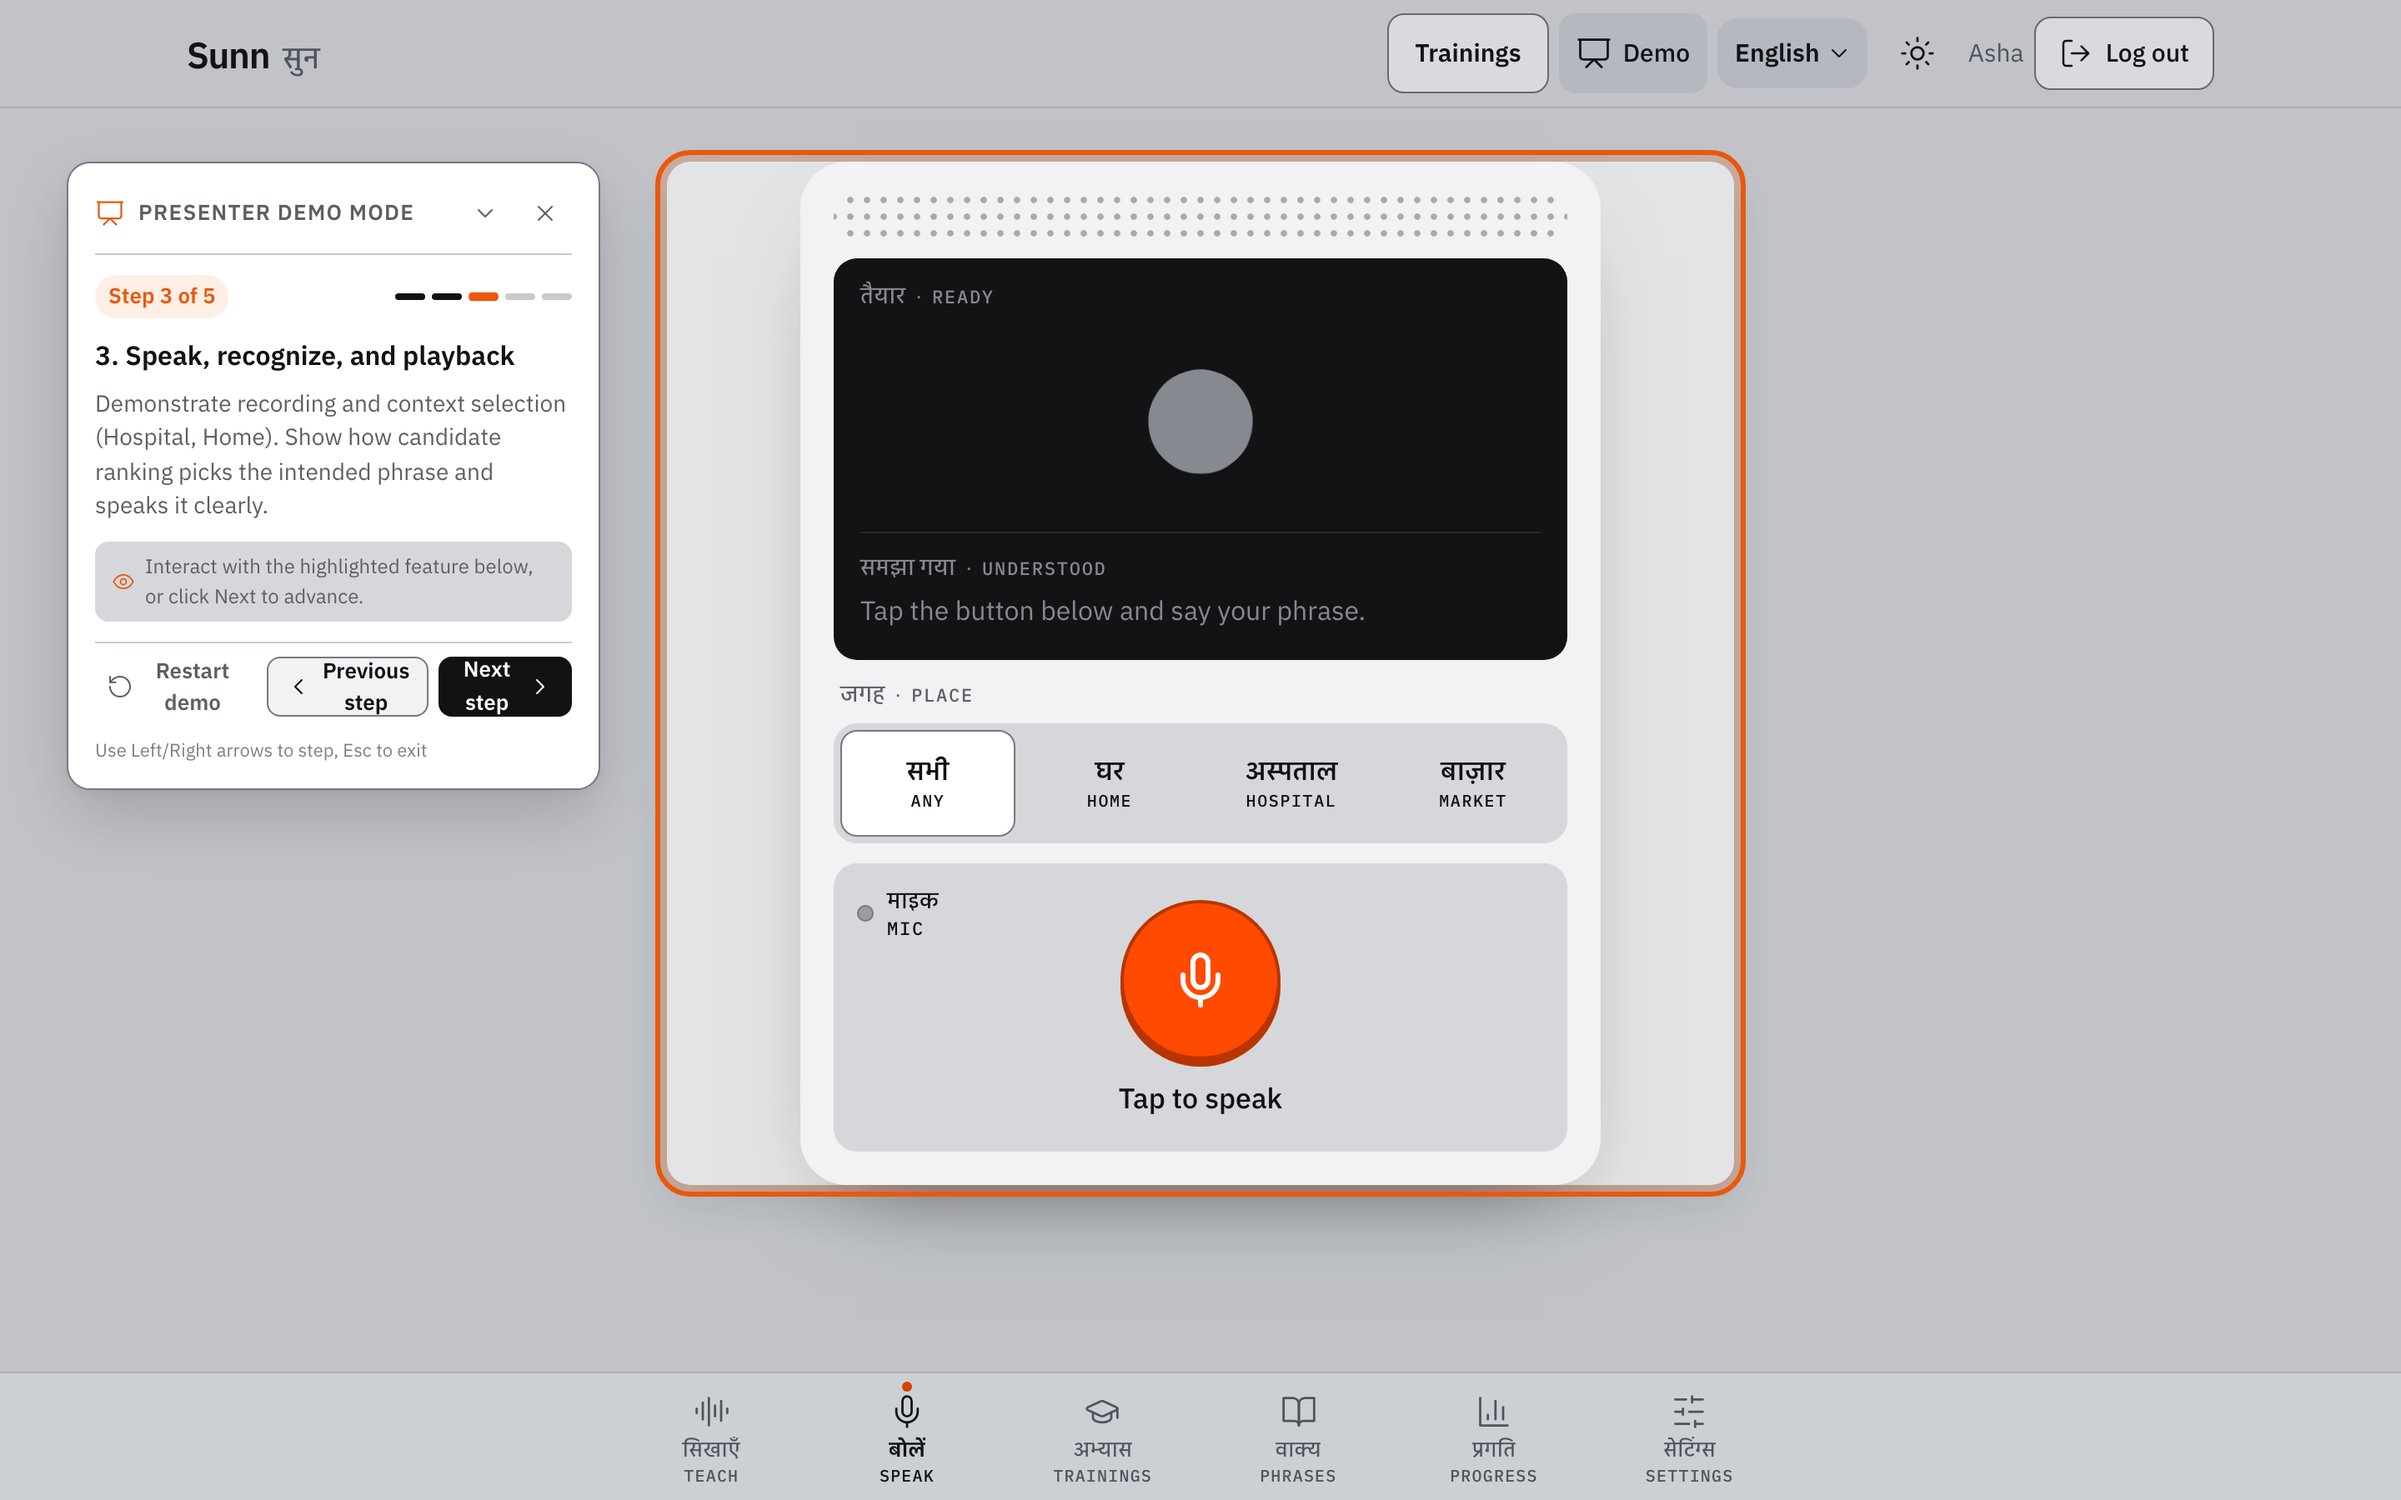
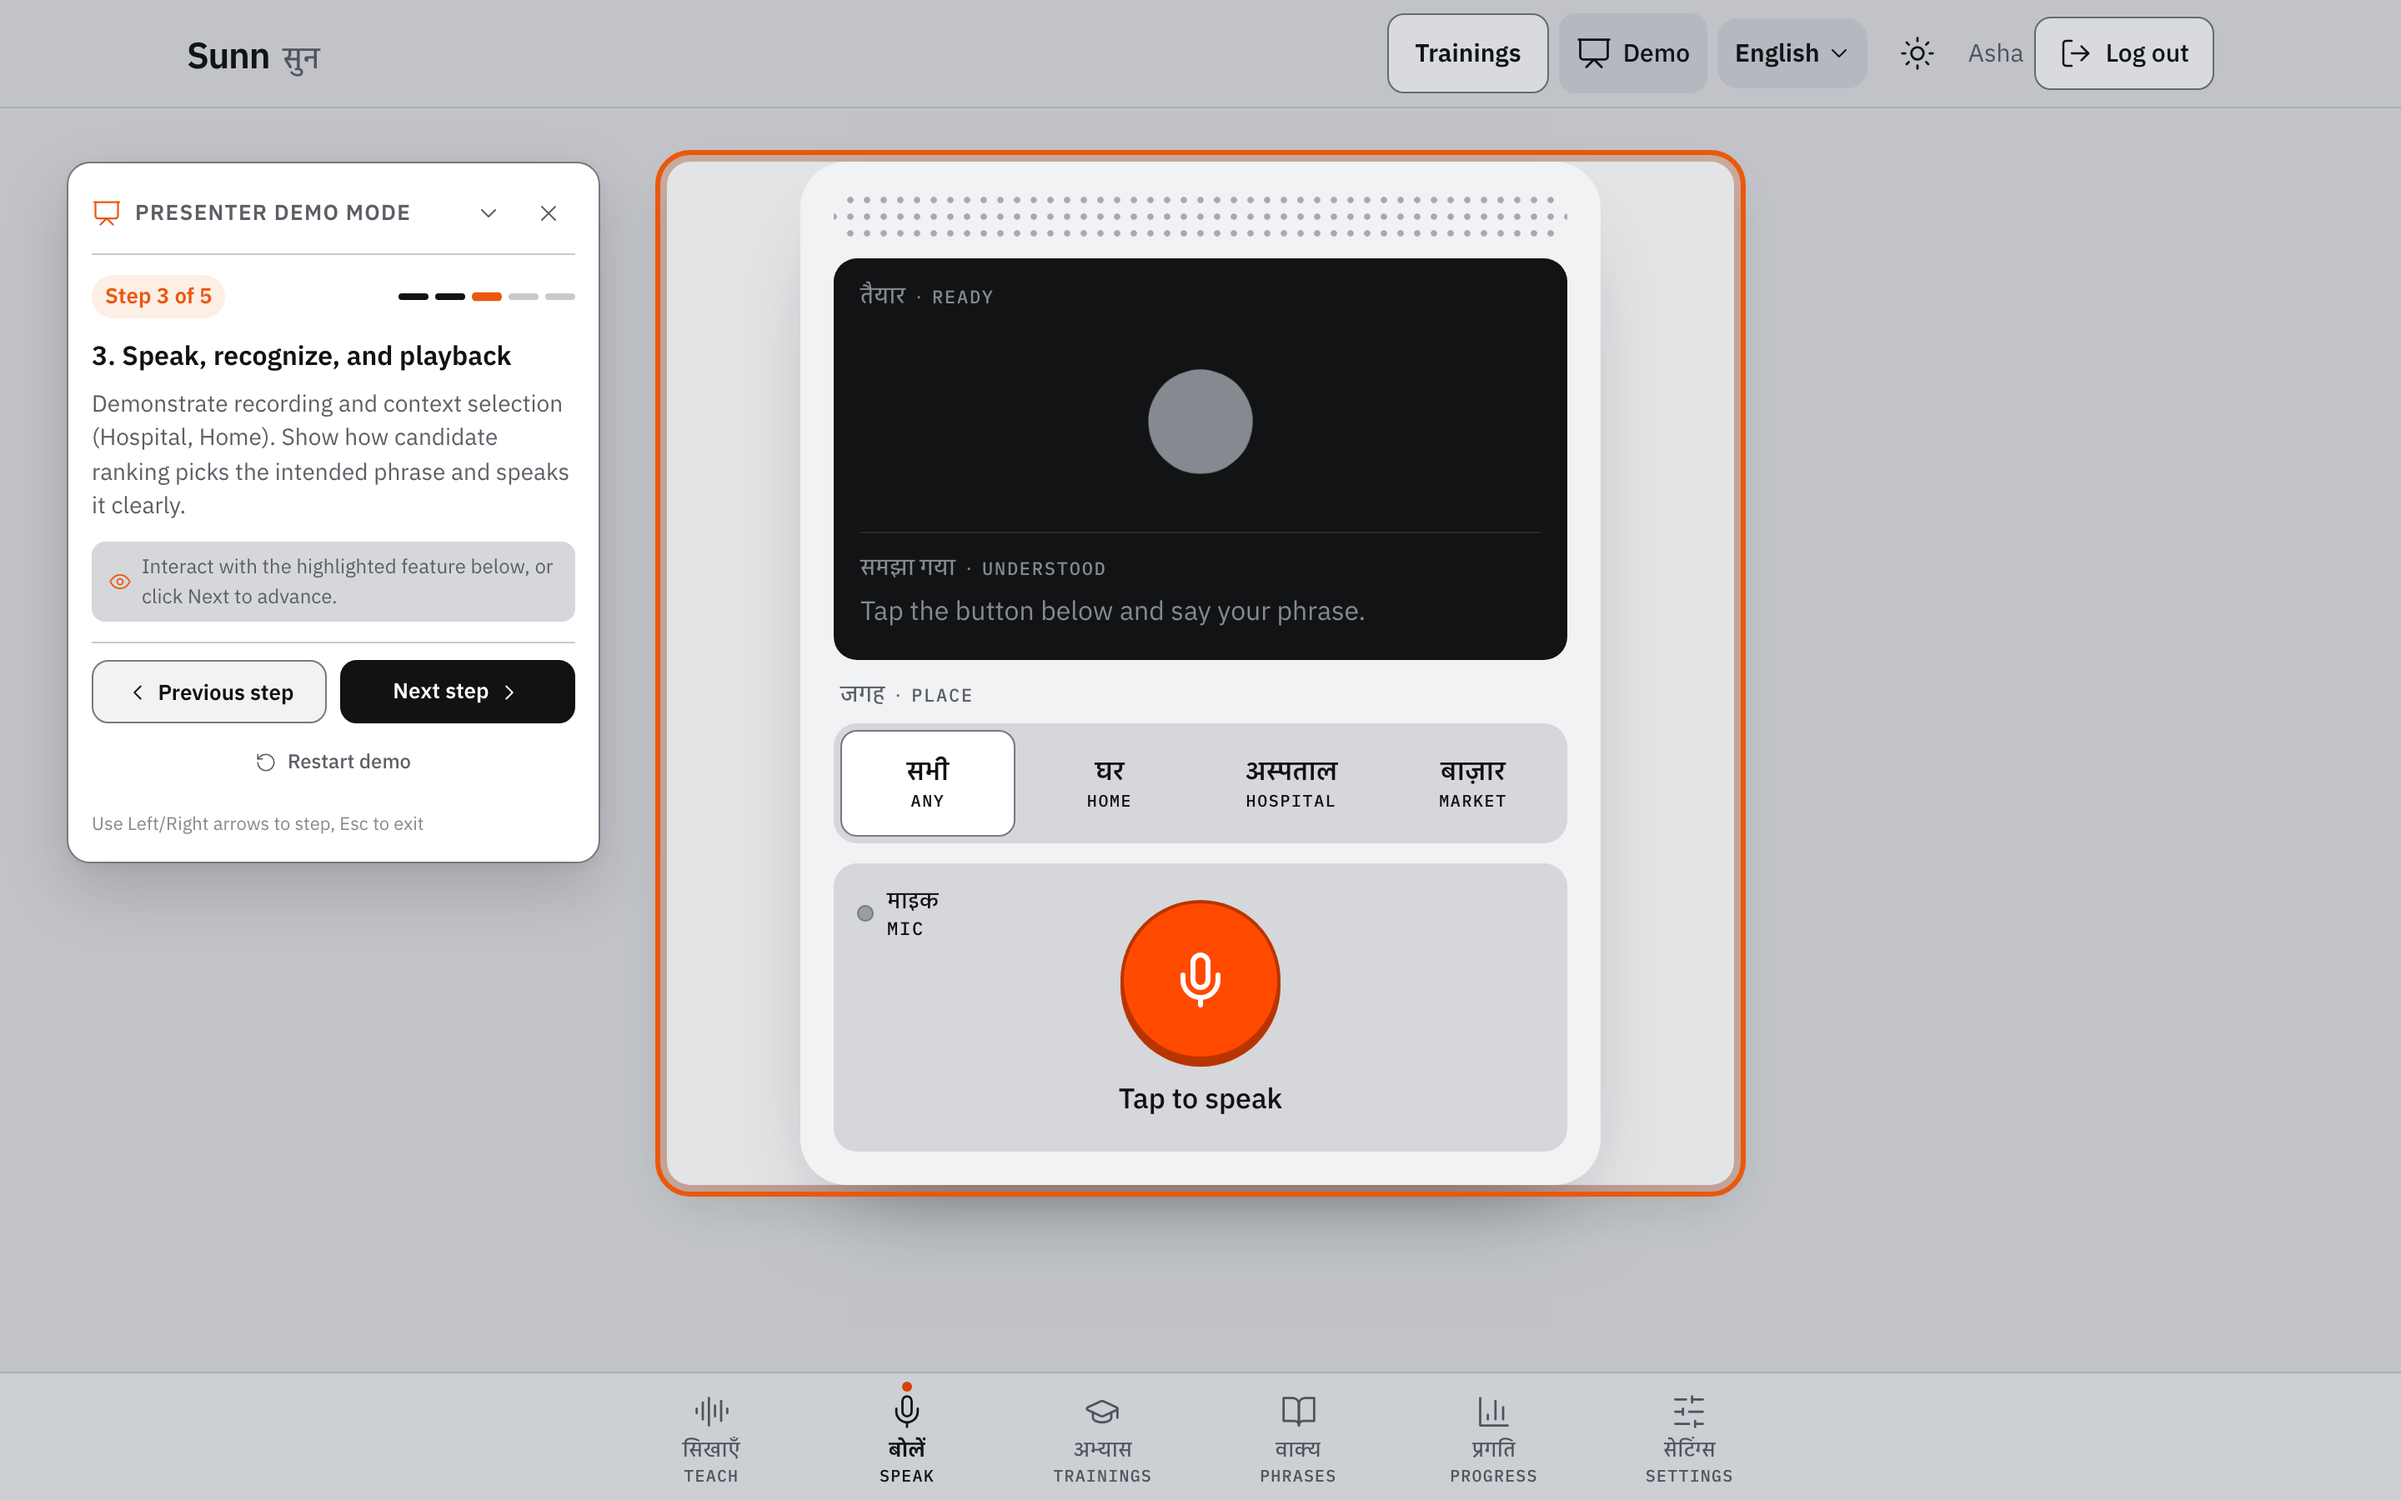
Fix presenter demo card layout and button overflow

diff --git a/web/src/PresenterBar.jsx b/web/src/PresenterBar.jsx
@@ -351,23 +351,12 @@ export default function PresenterBar({ onClose }) {
             </div>
           </div>
 
-          {/* Actions row */}
-          <div className="presenter-actions-row">
-            <button
-              type="button"
-              className="presenter-action-btn subtle"
-              onClick={handleRestart}
-              title={t('presenter.restart')}
-              aria-label={t('presenter.restart')}
-            >
-              <Icon name="rotate" />
-              <span>{t('presenter.restart')}</span>
-            </button>
-
-            <div className="presenter-nav-buttons presenter-prev-next">
+          {/* Actions footer */}
+          <div className="presenter-footer presenter-actions-row">
+            <div className={`presenter-nav-buttons presenter-prev-next ${stepIndex >= DEMO_STEPS.length - 1 ? 'has-finish' : ''}`}>
               <button
                 type="button"
-                className="presenter-action-btn"
+                className="presenter-action-btn secondary presenter-btn-prev"
                 onClick={handlePrev}
                 disabled={stepIndex <= 0}
                 aria-label={t('presenter.prev')}
@@ -377,12 +366,25 @@ export default function PresenterBar({ onClose }) {
               </button>
               <button
                 type="button"
-                className="presenter-action-btn primary"
+                className={`presenter-action-btn primary presenter-btn-next ${stepIndex >= DEMO_STEPS.length - 1 ? 'is-finish' : ''}`}
                 onClick={handleNext}
                 aria-label={stepIndex >= DEMO_STEPS.length - 1 ? t('presenter.finish') : t('presenter.next')}
               >
                 <span>{stepIndex >= DEMO_STEPS.length - 1 ? t('presenter.finish') : t('presenter.next')}</span>
                 <Icon name={stepIndex >= DEMO_STEPS.length - 1 ? 'check' : 'chevronRight'} />
+              </button>
+            </div>
+
+            <div className="presenter-secondary-row">
+              <button
+                type="button"
+                className="presenter-action-btn subtle presenter-btn-restart"
+                onClick={handleRestart}
+                title={t('presenter.restart')}
+                aria-label={t('presenter.restart')}
+              >
+                <Icon name="rotate" />
+                <span>{t('presenter.restart')}</span>
               </button>
             </div>
           </div>
@@ -411,22 +413,11 @@ export default function PresenterBar({ onClose }) {
             </div>
           </div>
 
-          <div className="presenter-actions-row">
-            <button
-              type="button"
-              className="presenter-action-btn subtle"
-              onClick={handleRestart}
-              title={t('presenter.restart')}
-              aria-label={t('presenter.restart')}
-            >
-              <Icon name="rotate" />
-              <span>{t('presenter.restart')}</span>
-            </button>
-
-            <div className="presenter-nav-buttons presenter-prev-next">
+          <div className="presenter-footer presenter-actions-row">
+            <div className="presenter-nav-buttons presenter-prev-next has-finish">
               <button
                 type="button"
-                className="presenter-action-btn"
+                className="presenter-action-btn secondary presenter-btn-prev"
                 onClick={handlePrev}
                 aria-label={t('presenter.prev')}
               >
@@ -435,12 +426,25 @@ export default function PresenterBar({ onClose }) {
               </button>
               <button
                 type="button"
-                className="presenter-action-btn primary"
+                className="presenter-action-btn primary is-finish"
                 onClick={onClose}
                 aria-label={t('presenter.exit')}
               >
                 <Icon name="check" />
                 <span>{t('presenter.finish')}</span>
+              </button>
+            </div>
+
+            <div className="presenter-secondary-row">
+              <button
+                type="button"
+                className="presenter-action-btn subtle presenter-btn-restart"
+                onClick={handleRestart}
+                title={t('presenter.restart')}
+                aria-label={t('presenter.restart')}
+              >
+                <Icon name="rotate" />
+                <span>{t('presenter.restart')}</span>
               </button>
             </div>
           </div>

diff --git a/web/src/styles.css b/web/src/styles.css
@@ -2890,7 +2890,9 @@ input:focus-visible + .file-pick {
   z-index: 1000;
   width: 320px;
   max-width: calc(100vw - 32px);
-  padding: 14px 16px;
+  box-sizing: border-box;
+  overflow: hidden;
+  padding: 14px 14px;
   border-radius: var(--r-well, 16px);
   border: 1px solid var(--edge);
   background: var(--raised);
@@ -3071,81 +3073,154 @@ input:focus-visible + .file-pick {
   flex-shrink: 0;
 }
 
-/* Actions Row */
+/* Footer & Actions */
+.presenter-footer,
 .presenter-actions-row {
   display: flex;
-  align-items: center;
-  justify-content: space-between;
+  flex-direction: column;
   gap: 8px;
-  padding-top: 8px;
+  padding-top: 10px;
   border-top: 1px solid var(--line);
+  margin-top: auto;
+  width: 100%;
+  box-sizing: border-box;
 }
 
 .presenter-nav-buttons,
 .presenter-prev-next {
-  display: flex;
-  align-items: center;
-  gap: 6px;
+  display: grid;
+  grid-template-columns: minmax(0, 1fr) minmax(0, 1fr);
+  gap: 8px;
+  width: 100%;
+  box-sizing: border-box;
+}
+
+.presenter-nav-buttons.has-finish,
+.presenter-prev-next.has-finish {
+  grid-template-columns: minmax(0, 1fr) minmax(0, 1.28fr);
+}
+
+.presenter-nav-buttons.has-finish .presenter-action-btn,
+.presenter-prev-next.has-finish .presenter-action-btn {
+  letter-spacing: -0.012em;
+  padding: 0 6px;
 }
 
 .presenter-action-btn {
   display: inline-flex;
   align-items: center;
   justify-content: center;
-  gap: 6px;
-  height: 2.25rem;
-  padding: 0 10px;
-  border-radius: 8px;
+  gap: 5px;
+  height: 2.375rem;
+  min-height: 2.375rem;
+  padding: 0 8px;
+  border-radius: var(--r-button, 8px);
   border: 1px solid var(--edge);
   background: var(--panel);
   color: var(--ink);
   font-size: 0.8125rem;
   font-weight: 600;
   cursor: pointer;
+  box-sizing: border-box;
+  white-space: nowrap;
+  overflow: hidden;
+  text-overflow: ellipsis;
   transition: background 0.15s, border-color 0.15s, opacity 0.15s;
+  width: 100%;
+  user-select: none;
+}
+
+.presenter-action-btn span {
+  overflow: hidden;
+  text-overflow: ellipsis;
+  white-space: nowrap;
 }
 
 .presenter-action-btn:hover:not(:disabled) {
   background: var(--well);
 }
 
-.presenter-action-btn.subtle {
-  border-color: transparent;
-  background: transparent;
-  color: var(--ink-2);
-  padding: 0 6px;
+.presenter-action-btn.secondary,
+.presenter-btn-prev {
+  background: var(--panel);
+  border-color: var(--edge);
+  color: var(--ink);
 }
 
-.presenter-action-btn.subtle:hover {
-  color: var(--ink);
+.presenter-action-btn.secondary:hover:not(:disabled),
+.presenter-btn-prev:hover:not(:disabled) {
   background: var(--well);
 }
 
-.presenter-action-btn.primary {
+.presenter-action-btn.primary,
+.presenter-btn-next {
   border-color: var(--ink);
   background: var(--ink);
   color: var(--on-ink);
 }
 
-.presenter-action-btn.primary:hover:not(:disabled) {
+.presenter-action-btn.primary:hover:not(:disabled),
+.presenter-btn-next:hover:not(:disabled) {
   opacity: 0.9;
 }
 
 .presenter-action-btn:disabled {
   opacity: 0.35;
   cursor: not-allowed;
+  pointer-events: none;
 }
 
 .presenter-action-btn .icon {
-  width: 1rem;
-  height: 1rem;
+  width: 0.9375rem;
+  height: 0.9375rem;
+  flex-shrink: 0;
+}
+
+.presenter-secondary-row {
+  display: flex;
+  align-items: center;
+  justify-content: center;
+  width: 100%;
+  box-sizing: border-box;
+}
+
+.presenter-btn-restart {
+  display: inline-flex;
+  align-items: center;
+  justify-content: center;
+  gap: 6px;
+  height: 1.875rem;
+  min-height: 1.875rem;
+  padding: 0 10px;
+  font-size: 0.75rem;
+  font-weight: 500;
+  color: var(--ink-2);
+  border-radius: 6px;
+  border: 1px solid transparent;
+  background: transparent;
+  cursor: pointer;
+  transition: background 0.15s, color 0.15s;
+  width: auto;
+  user-select: none;
+}
+
+.presenter-btn-restart:hover {
+  color: var(--ink);
+  background: var(--well);
+}
+
+.presenter-btn-restart .icon {
+  width: 0.8125rem;
+  height: 0.8125rem;
+  flex-shrink: 0;
 }
 
 .presenter-keyboard-hint {
   font-size: 0.6875rem;
   color: var(--ink-2);
   text-align: center;
-  opacity: 0.8;
+  opacity: 0.75;
+  margin-top: 2px;
 }
 
 /* Collapsed State */
